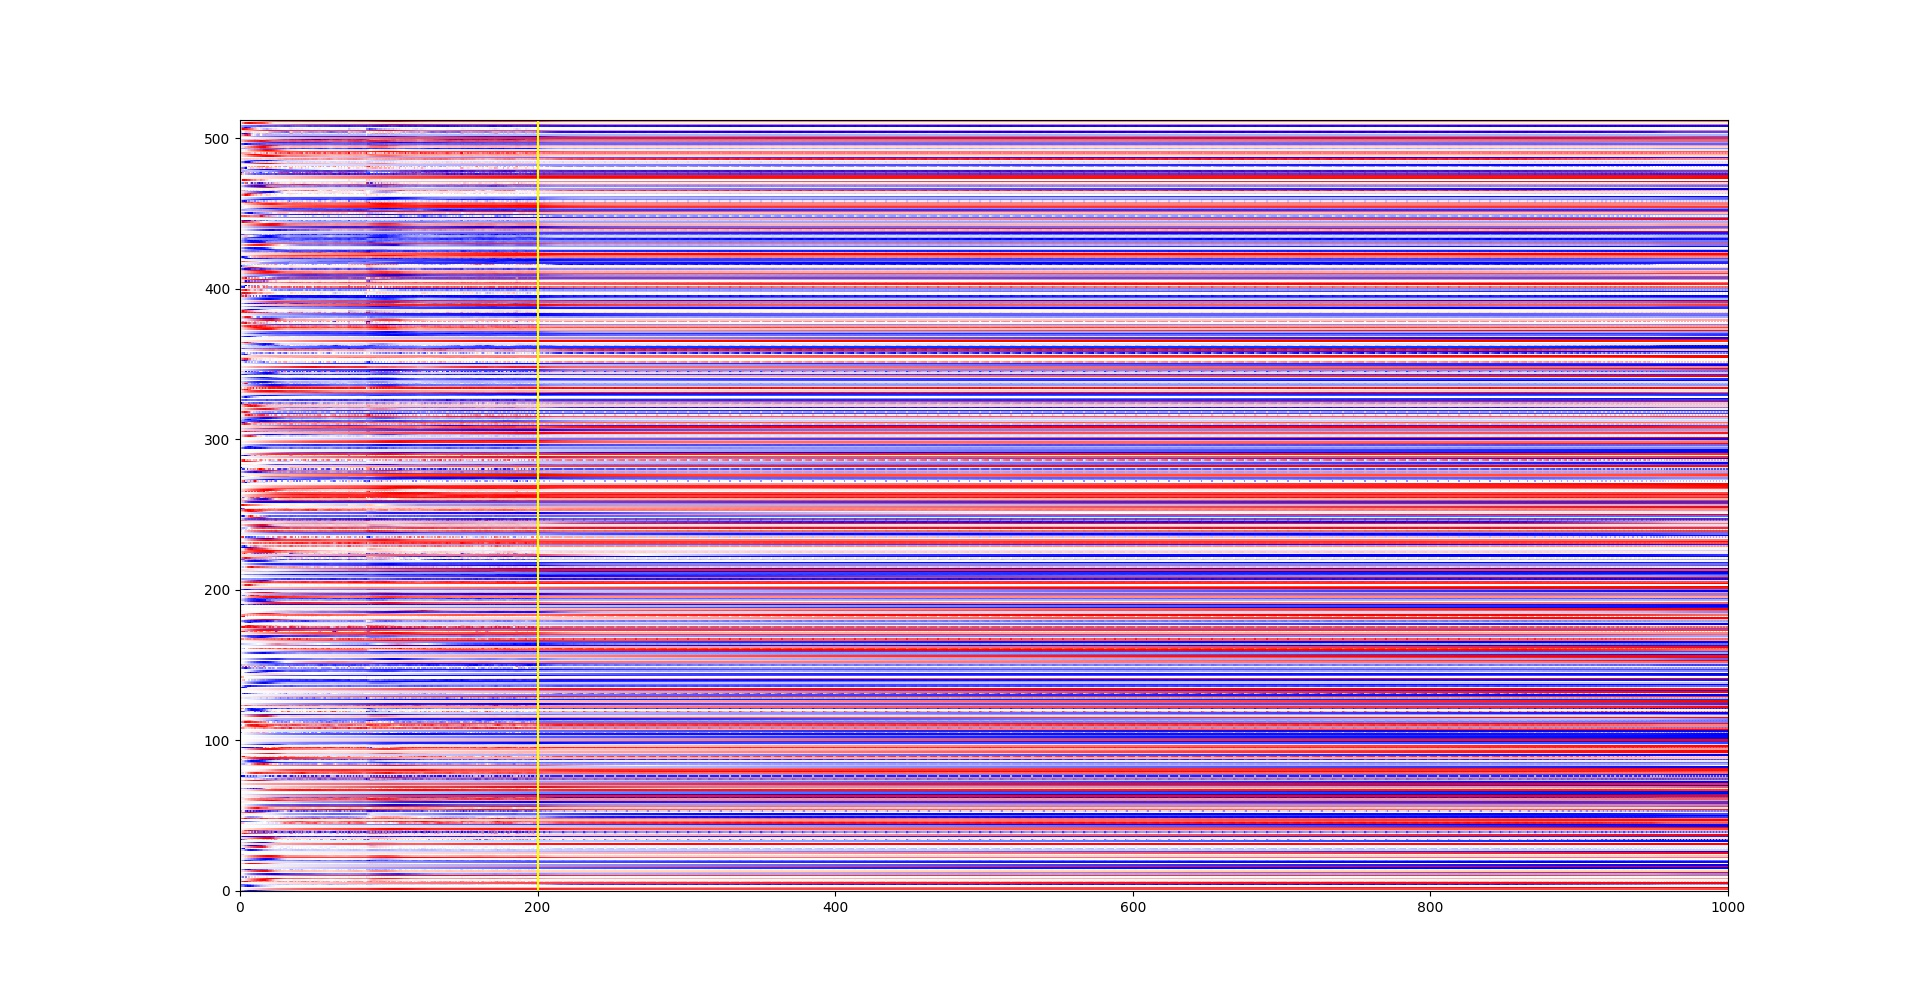
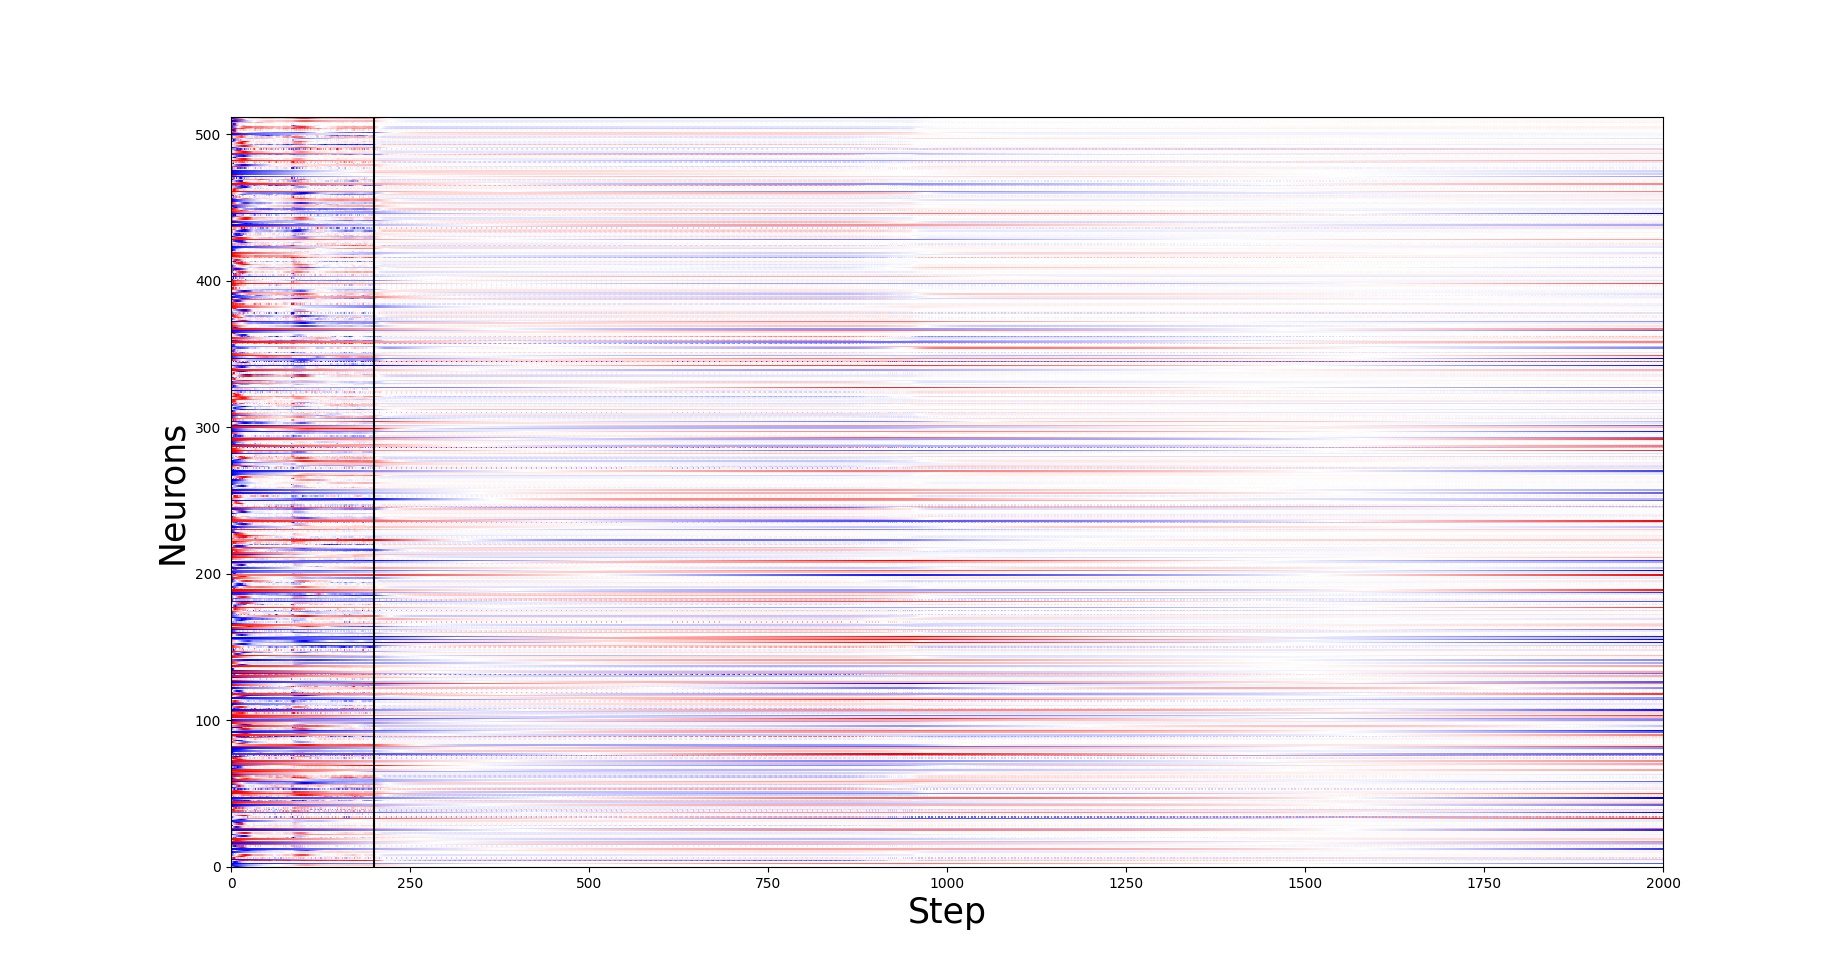
MEI

diff --git a/Analysis/Neural/Visualisation/activity_heat_maps.py b/Analysis/Neural/Visualisation/activity_heat_maps.py
@@ -1,5 +1,7 @@
 import numpy as np
 import matplotlib.pyplot as plt
+from scipy import signal
+
 
 from Analysis.load_data import load_data
 from Analysis.Neural.Tools.normalise_activity import normalise_within_neuron_multiple_traces
@@ -7,20 +9,39 @@ from Analysis.Behavioural.Tools.BehavLabels.label_behavioural_context import lab
 
 
 def display_activity_heat_map(rnn_activity, event_timestamps, name, min_t=0, max_t=-1, normalise_main_activity=True,
-                              normalise_cell_activity=True):
+                              normalise_cell_activity=True, remove_undeviating=False):
     main_activity = np.swapaxes(rnn_activity[min_t:max_t, 0, 0, :], 0, 1)
     cell_state_activity = np.swapaxes(rnn_activity[min_t:max_t, 1, 0, :], 0, 1)
+
+    main_activity = signal.detrend(main_activity)
+    cell_state_activity = signal.detrend(cell_state_activity)
 
     if normalise_main_activity:
         main_activity = normalise_within_neuron_multiple_traces(main_activity)
     if normalise_cell_activity:
         cell_state_activity = normalise_within_neuron_multiple_traces(cell_state_activity)
 
+    if remove_undeviating:
+        thresh_1 = 0.20
+        # thresh_1 = 0.05
+        # thresh_1 = 0.07
+        std_main = np.std(main_activity[:, 200:], axis=1)
+        varying_main = (std_main > thresh_1)
+        main_activity = main_activity[varying_main]
 
-    plt.figure(figsize=(20, 20))
+        thresh_2 = 0.20
+        # thresh_2 = 0.15
+        # thresh_2 = 0.17
+        std_cell = np.std(cell_state_activity[:, 200:], axis=1)
+        varying_cell = (std_cell > thresh_2)
+        cell_state_activity = cell_state_activity[varying_cell]
+
+    plt.figure(figsize=(20, 5))
     plt.pcolormesh(main_activity, cmap="bwr")
     for event in event_timestamps:
-        plt.vlines(event, 0, main_activity.shape[0], color="yellow")
+        plt.vlines(event, 0, main_activity.shape[0], color="black")
+    plt.ylabel("Neurons", fontsize=25)
+    plt.xlabel("Step", fontsize=25)
     plt.savefig(f"{name}-heat_map.jpg", dpi=100)
     plt.clf()
     plt.close()
@@ -54,6 +75,10 @@ def display_activity_heat_map_capture_sequences_average(model_name, assay_config
     # RNN normalisation
     main_activity = np.swapaxes(all_rnn_activity[:, 0, 0, :], 0, 1)
     cell_state_activity = np.swapaxes(all_rnn_activity[:, 1, 0, :], 0, 1)
+
+    main_activity = signal.detrend(main_activity)
+    cell_state_activity = signal.detrend(cell_state_activity)
+
     if normalise_main_activity:
         main_activity = normalise_within_neuron_multiple_traces(main_activity, zero_score_start=False)
     if normalise_cell_activity:
@@ -143,12 +168,17 @@ if __name__ == "__main__":
                                                         normalise_main_activity=True, normalise_cell_activity=True,
                                                         sequence_steps=50, post_steps=50)
     # Interrupted trials
-    # data = load_data("dqn_scaffold_14-1", "Interruptions-H", "Naturalistic-3")
-    # data2 = load_data("dqn_scaffold_14-1", "Interruptions-H", "Naturalistic-5")
-    # display_activity_heat_map(data2["rnn_state_actor"], [200], "Interruptions", max_t=1000)
+    # data = load_data("dqn_scaffold_14-1", "Interruptions-HA", "Naturalistic-3")
+    # data2 = load_data("dqn_scaffold_14-1", "Interruptions-HA", "Naturalistic-5")
+    # display_activity_heat_map(data2["rnn_state_actor"], [200], "dqn_14-1-Interruptions", max_t=2000, remove_undeviating=True)
     #
     # # Normal trials
-    # data = load_data("ppo_scaffold_21-1", "Behavioural-Data-Free", "Naturalistic-5")
+    # data = load_data("ppo_scaffold_21-2", "Behavioural-Data-Videos-A1", "Naturalistic-5")
     # consumption_events = [i for i, c in enumerate(data["consumed"]) if c == 1]
-    # display_activity_heat_map(data["rnn_state_actor"], consumption_events, "Normal Behaviour")
+    # display_activity_heat_map(data["rnn_state_actor"], consumption_events, "ppo_scaffold_21-2-Normal Behaviour")
+    #
+    # data = load_data("dqn_scaffold_26-2", "Behavioural-Data-Videos-A1", "Naturalistic-1")
+    # consumption_events = [i for i, c in enumerate(data["consumed"]) if c == 1]
+    # display_activity_heat_map(data["rnn_state_actor"], consumption_events, "dqn_scaffold_26-2-Normal Behaviour")
+
 

diff --git a/run_analysis.py b/run_analysis.py
@@ -34,41 +34,41 @@ elif run_config == "4l":
 elif run_config == "dense":
     produce_meis("dqn_scaffold_26-2", "rnn_in", full_reafference=True, iterations=100, conv=False)
 elif run_config == "draw_ep":
+    model_name = "xdqn_scaffold_14-2"
+    assay_config_name = "dqn_26_2_videos"
+
+    data = load_data(model_name, "Behavioural-Data-Videos-A1", "Naturalistic-1")
+    draw_episode(data, assay_config_name, model_name, continuous_actions=False, show_energy_state=False,
+                 trim_to_fish=True, showed_region_quad=750, save_id="A11")
+    data = load_data(model_name, "Behavioural-Data-Videos-C1", "Naturalistic-1")
+    draw_episode(data, assay_config_name, model_name, continuous_actions=False, show_energy_state=False,
+                 trim_to_fish=True, showed_region_quad=750, save_id="C11")
+
     # model_name = "dqn_scaffold_26-2"
     # assay_config_name = "dqn_26_2_videos"
     #
-    # data = load_data(model_name, "Behavioural-Data-Videos-A1", "Naturalistic-1")
+    # data = load_data(model_name, "Behavioural-Data-Videos-CONV", "Naturalistic-2")
+    #
+    # learning_params, environment_params, base_network_layers, ops, connectivity = load_configuration_files(model_name)
+    # base_network_layers["rnn_state_actor"] = base_network_layers["rnn"]
+    # del base_network_layers["rnn"]
+    # network_data = {key: data[key] for key in list(base_network_layers.keys())}
+    # network_data["rnn"] = data["rnn_state_actor"][:, 0, 0, :]
+    # base_network_layers["rnn"] = base_network_layers["rnn_state_actor"]
+    # del base_network_layers["rnn_state_actor"]
+    # del network_data["rnn_state_actor"]
+    #
+    # network_data["left_eye"] = data["observation"][:, :, :, 0]
+    # network_data["right_eye"] = data["observation"][:, :, :, 1]
+    # network_data["internal_state"] = np.concatenate((np.expand_dims(data["energy_state"], 1),
+    #                                                  np.expand_dims(data["salt"], 1)), axis=1)
+    #
+    # ops = convert_ops_to_graph(ops)
+    # create_network_video(network_data, connectivity + ops, model_name, save_id="CONV", s_per_frame=0.04, scale=1)
+    #
     # draw_episode(data, assay_config_name, model_name, continuous_actions=False, show_energy_state=False,
-    #              trim_to_fish=True, showed_region_quad=750, save_id="A11")
-    # data = load_data(model_name, "Behavioural-Data-Videos-C1", "Naturalistic-1")
-    # draw_episode(data, assay_config_name, model_name, continuous_actions=False, show_energy_state=False,
-    #              trim_to_fish=True, showed_region_quad=750, save_id="C11")
-
-    model_name = "dqn_scaffold_26-2"
-    assay_config_name = "dqn_26_2_videos"
-
-    data = load_data(model_name, "Behavioural-Data-Videos-CONV", "Naturalistic-2")
-
-    learning_params, environment_params, base_network_layers, ops, connectivity = load_configuration_files(model_name)
-    base_network_layers["rnn_state_actor"] = base_network_layers["rnn"]
-    del base_network_layers["rnn"]
-    network_data = {key: data[key] for key in list(base_network_layers.keys())}
-    network_data["rnn"] = data["rnn_state_actor"][:, 0, 0, :]
-    base_network_layers["rnn"] = base_network_layers["rnn_state_actor"]
-    del base_network_layers["rnn_state_actor"]
-    del network_data["rnn_state_actor"]
-
-    network_data["left_eye"] = data["observation"][:, :, :, 0]
-    network_data["right_eye"] = data["observation"][:, :, :, 1]
-    network_data["internal_state"] = np.concatenate((np.expand_dims(data["energy_state"], 1),
-                                                     np.expand_dims(data["salt"], 1)), axis=1)
-
-    ops = convert_ops_to_graph(ops)
-    create_network_video(network_data, connectivity + ops, model_name, save_id="CONV", s_per_frame=0.04, scale=1)
-
-    draw_episode(data, assay_config_name, model_name, continuous_actions=False, show_energy_state=False,
-                 draw_past_actions=True,
-                 trim_to_fish=True, showed_region_quad=750, save_id="CONV", s_per_frame=0.04)
+    #              draw_past_actions=True,
+    #              trim_to_fish=True, showed_region_quad=750, save_id="CONV", s_per_frame=0.04)
 
     # model_name = "ppo_scaffold_21-2"
     # assay_config_name = "ppo_21_2_videos"

diff --git a/Analysis/Behavioural/Continuous/plot_behavioural_choice.py b/Analysis/Behavioural/Continuous/plot_behavioural_choice.py
@@ -118,7 +118,7 @@ def extract_consumption_action_sequences(data, n=20):
     return prey_c_t
 
 
-def plot_action_scatter(impulses, angles, model_name, special_impulses=None, special_angles=None, special_names=None):
+def plot_action_scatter(impulses, angles, model_name, special_impulses=None, special_angles=None, special_names=None, color=None):
     plot_name = f"{model_name}-action_scatter"
 
     plt.scatter(impulses, angles, alpha=.1)
@@ -127,7 +127,10 @@ def plot_action_scatter(impulses, angles, model_name, special_impulses=None, spe
     i = 0
     if special_names is not None:
         for impulses_s, angles_s in zip(special_impulses, special_angles):
-            plt.scatter(impulses_s, angles_s, color=special_colours[i], alpha=0.2)
+            if color is not None:
+                plt.scatter(impulses_s, angles_s, color=color, alpha=0.2)
+            else:
+                plt.scatter(impulses_s, angles_s, color=special_colours[i], alpha=0.2)
             i += 1
         plot_name = "-".join(special_names) + "-" + plot_name
 
@@ -254,6 +257,7 @@ def plot_actions_under_all_contexts(model_name, assay_config, assay_id, n, impul
     mu_angle *= angle_scaling
 
     all_contexts = np.concatenate((context_labels), axis=0)
+    context_colours = ['b', 'b', 'b', 'g',  'g', 'r',  'r',  'r', 'r', 'y', "black", "black", "black", "black"]
 
     for context in range(all_contexts.shape[1]):
         important_points = [i for i, v in enumerate(all_contexts[:, context]) if v == 1]
@@ -261,20 +265,20 @@ def plot_actions_under_all_contexts(model_name, assay_config, assay_id, n, impul
         mu_angle_s = mu_angle[important_points]
 
         plot_action_scatter(mu_impulse, mu_angle, model_name, [mu_impulse_s], [mu_angle_s],
-                            [get_behavioural_context_name_by_index(context)])
+                            [get_behavioural_context_name_by_index(context)], color=context_colours[context])
 
 
 
 
 if __name__ == "__main__":
-    model_name = "ppo_scaffold_21-1"
+    model_name = "ppo_scaffold_21-2"
 
     max_impulse = 16
     angle_scaling = 1
 
-    plot_action_space_usage(model_name, "Behavioural-Data-NaturalisticA", "Naturalistic", 20, max_impulse, angle_scaling,
-                            show_action_mask=True)
-    # plot_actions_under_all_contexts(model_name, "Behavioural-Data-Free", "Naturalistic", 20, max_impulse, angle_scaling)
+    # plot_action_space_usage(model_name, "Behavioural-Data-NaturalisticA", "Naturalistic", 20, max_impulse, angle_scaling,
+    #                         show_action_mask=True)
+    plot_actions_under_all_contexts(model_name, "Behavioural-Data-Free", "Naturalistic", 20, max_impulse, angle_scaling)
 
 
 

diff --git a/Analysis/Behavioural/Interventions/assess_full_interruptions.py b/Analysis/Behavioural/Interventions/assess_full_interruptions.py
@@ -286,8 +286,8 @@ def plot_binned_results(results, model_names, bin_size, initialisation_period, f
 
 def display_action_plots_discrete(model_name, assay_config, assay_id, n, figure_name, slice_size=200):
     actions_compiled = []
-    for i in range(1, n+1):
-
+    plots = [3, 5, 1, 2, 4] + [i for i in range(6, n+1)]  # To place similar ones together.
+    for i in plots:
         model_compiled = []
         if i < 6:
             d = load_data(model_name, "Interruptions-HA", f"{assay_id}-{i}")
@@ -297,16 +297,19 @@ def display_action_plots_discrete(model_name, assay_config, assay_id, n, figure_
             model_compiled.append(d["action"][i: i+slice_size])
         actions_compiled.append(model_compiled)
 
+    # If splitting into bins
     # actions_compiled2 = [[actions_compiled[trial][slice] for trial in range(len(actions_compiled))] for slice in range(10)]
     # actions_compiled2 = [actions_compiled2[i] + [(np.ones(slice_size)*10).astype(int) for j in range(len(actions_compiled2[i]))] for i in range(len(actions_compiled2))]
     actions_compiled2 = actions_compiled
     actions_compiled2 = np.concatenate((actions_compiled2))
 
     color_set = ['b', 'g', 'lightgreen', 'r', 'y', 'gold', "c", "m", "m", "black", "white"]
-    fig, ax = plt.subplots(figsize=(14, 10))
+    color_set = ['b', 'y', 'gold', 'r', 'g', 'lightgreen',  "c", "m", "m", "black", "white"]
+    fig, ax = plt.subplots(figsize=(20, 5))
     for i, seq in enumerate(actions_compiled2):
         for j, a in enumerate(seq):
             ax.fill_between((j, j + 1), -i, -i - 1, color=color_set[a])
+    plt.vlines(200, 2, -n-2, color="black")
 
     seen = set()
     seen_add = seen.add
@@ -318,9 +321,14 @@ def display_action_plots_discrete(model_name, assay_config, assay_id, n, figure_
 
     legend_elements = [Patch(facecolor=color_set[a], label=associated_actions[i]) for i, a in enumerate(ordered_actions_present)]# [0], [0], marker="o", color=color_set[i], label=associated_actions[i]) for i in actions_present]
 
-
+    ax.spines['top'].set_visible(False)
+    ax.spines['right'].set_visible(False)
+    ax.spines['bottom'].set_visible(False)
+    ax.spines['left'].set_visible(False)
     plt.legend(legend_elements, associated_actions, bbox_to_anchor=(1.02, 1), loc=2, borderaxespad=0.)
     # plt.axis("scaled")
+    plt.ylabel("Trial", fontsize=30)
+    plt.xlabel("Step", fontsize=30)
     plt.savefig(f"{figure_name}.png")
     plt.close(fig)
     plt.clf()

diff --git a/Analysis/Training/plot_metrics_newest.py b/Analysis/Training/plot_metrics_newest.py
@@ -77,7 +77,8 @@ def get_metric_name(metric_label):
     return metric_name
 
 
-def plot_multiple_metrics_multiple_models(model_list, metrics, window, interpolate_scaffold_points, figure_name):
+def plot_multiple_metrics_multiple_models(model_list, metrics, window, interpolate_scaffold_points, figure_name,
+                                          key_scaffold_points=None):
     """Different to previous versions in that it uses data directly from log files, and scales points between scaffold
     switching points to allow plotting between models. The resulting graph is x: config change point, y: metric.
 
@@ -117,9 +118,17 @@ def plot_multiple_metrics_multiple_models(model_list, metrics, window, interpola
                 model[metric][to_switch, 1] -= 0.5
                 model[metric][to_switch, 1] *= 2
             axs[i].plot(model[metric][:, 0], model[metric][:, 1])
+            if min(model[metric][:, 1]) <= 0:
+                plt.hlines(0, 0, 35, color="black", linestyles="dashed")
 
-            axs[i].set_ylabel(metric_name)
             axs[i].grid(True, axis="x")
+
+            if key_scaffold_points is not None:
+                ylim = axs[i].get_ylim()
+                for p in key_scaffold_points:
+                    axs[i].vlines(p, ylim[0], ylim[1], color="r")
+                axs[i].set_ylim(ylim[0], ylim[1])
+            # axs[i].set_ylabel(metric_name)
 
     axs[-1].set_xlabel("Scaffold Point")
     sc = np.concatenate(([np.array(s) for s in scaffold_switching_points]))
@@ -193,7 +202,7 @@ if __name__ == "__main__":
                           # "Phototaxis Index"
                           ]
     plot_multiple_metrics_multiple_models(dqn_models, chosen_metrics_dqn, window=40, interpolate_scaffold_points=True,
-                                          figure_name="dqn_30")
-    plot_multiple_metrics_multiple_models(ppo_models, chosen_metrics_ppo, window=40, interpolate_scaffold_points=True,
-                                          figure_name="ppo_21")
+                                          figure_name="dqn_30", key_scaffold_points=[10, 16, 31])
+    # plot_multiple_metrics_multiple_models(ppo_models, chosen_metrics_ppo, window=40, interpolate_scaffold_points=True,
+    #                                       figure_name="ppo_21")
     # plot_scaffold_durations(models[0])

diff --git a/Analysis/Behavioural/Both/assess_prey_approach.py b/Analysis/Behavioural/Both/assess_prey_approach.py
@@ -49,7 +49,7 @@ def get_fish_prey_relationships(data, sequences):
 if __name__ == "__main__":
     dist = []
     angs = []
-    model_name, assay_config, assay_id, n = "ppo_scaffold_21-1", "Behavioural-Data-Free", f"Naturalistic", 10
+    model_name, assay_config, assay_id, n = "dqn_scaffold_26-2", "Behavioural-Data-NaturalisticA", f"Naturalistic", 40
     for i in range(1, n+1):
         d = load_data(model_name, assay_config, f"{assay_id}-{i}")
         ts = get_prey_capture_timestamps(d)
@@ -68,24 +68,29 @@ if __name__ == "__main__":
     mean_ang = np.mean(np.absolute(angs), axis=0)
 
     # plt.plot(np.swapaxes(angs, 0, 1), color="grey", alpha=0.5)
-    plt.plot(mean_ang, color="r")
+
     upper, lower = mean_ang + angs_sem, mean_ang - angs_sem
-    steps = [i for i in range(len(mean_ang))]
-    plt.fill_between(steps, upper, lower)
-    plt.xlabel("Bouts before consumption")
-    plt.ylabel("Angle to prey (pi radians)")
+    steps = [i-9 for i in range(len(mean_ang))]
+
+    plt.plot(steps, mean_ang, color="r")
+    plt.fill_between(steps, upper, lower, alpha=0.5)
+    plt.xlabel("Steps from Consumption", fontsize=15)
+    plt.ylabel("Fish-Prey Angle (pi radians)", fontsize=15)
+    plt.ylim(0, 0.9)
     plt.savefig(f"{model_name}-fish_prey_angle.jpg")
     plt.clf()
     plt.close()
 
     # plt.plot(np.swapaxes(dist, 0, 1)/10, color="grey", alpha=0.5)
-    plt.plot(mean_dist/10, color="r")
     upper, lower = mean_dist+dist_sem, mean_dist-dist_sem
-    steps = [i for i in range(len(mean_dist))]
-    plt.fill_between(steps, upper/10, lower/10)
-    plt.xlabel("Bouts before consumption")
-    plt.ylabel("Distance from Prey (mm)")
-    plt.ylim(0, 10)
+    steps = [i-9 for i in range(len(mean_dist))]
+
+    plt.plot(steps, mean_dist/10, color="r")
+    plt.fill_between(steps, upper/10, lower/10, alpha=0.5)
+    plt.xlabel("Steps from Consumption", fontsize=15)
+    plt.ylabel("Fish-Prey Distance (mm)", fontsize=15)
+    plt.ylim(0, 7)
+    plt.legend(["Mean", "SEM"])
     plt.savefig(f"{model_name}-fish_prey_distance.jpg")
     plt.clf()
     plt.close()

diff --git a/Analysis/Behavioural/Continuous/identifying_bouts.py b/Analysis/Behavioural/Continuous/identifying_bouts.py
@@ -61,9 +61,9 @@ def cluster_bouts(impulses, angles, cluster_type, cluster_num, model_name, impul
             else:
                 plt.text(i+0.1, a + 0.03, bout_names[index])
 
-    plt.legend([str(a) for a in range(cluster_num)])
-    plt.xlabel("Impulse")
-    plt.ylabel("Angle")
+    # plt.legend([str(a) for a in range(cluster_num)])
+    plt.xlabel("Impulse", fontsize=15)
+    plt.ylabel("Angle (pi radians)", fontsize=15)
     plt.savefig(f"All-Plots/{model_name}/{cluster_type}-{cluster_num}-clustered.jpg")
     plt.clf()
     plt.close()
@@ -163,7 +163,7 @@ if __name__ == "__main__":
     mu_angle = np.concatenate((mu_angle, mu_angle_empty))
 
     p, associated_bouts = cluster_bouts(mu_impulse, mu_angle, "KNN", n_clusters, model_name, 16, 1, return_actions=True,
-                                        overlay_bouts=True)
+                                        overlay_bouts=False)
 
     # get_all_density_plots_all_subsets_continuous(model_name, assay_config, assay_id, n,  predictor=p, mu_impulse=mu_impulse,
     #                                              mu_angle=mu_angle,

diff --git a/Analysis/Neural/MEI/estimate_mei_direct.py b/Analysis/Neural/MEI/estimate_mei_direct.py
@@ -235,6 +235,8 @@ def produce_meis_extended(model_name, layer_name, full_reafference, iterations=1
         # readout_blocks = {f"Unit {unit}": getattr(network, layer_name)[:, :, unit] for unit in range(n_units)}
         target_layer = getattr(network, layer_name)
         n_units = target_layer.shape[-1]
+        if n_units > 64:
+            n_units = 50
         n_applications = target_layer.shape[-2]
         all_images = np.zeros((n_units, n_applications, 100, 3, 2))
 
@@ -325,7 +327,8 @@ def produce_meis_extended(model_name, layer_name, full_reafference, iterations=1
 
 
 if __name__ == "__main__":
-    produce_meis("dqn_scaffold_26-2", "conv4l", full_reafference=True, iterations=100)
+    produce_meis("dqn_scaffold_26-2", "Q_out", full_reafference=True, iterations=100, conv=False)
+    # produce_meis("dqn_scaffold_26-2", "conv4l", full_reafference=True, iterations=100)
     # produce_meis("dqn_scaffold_26-2", "rnn_in", full_reafference=True, iterations=2, conv=False)
     # produce_meis_extended("dqn_scaffold_26-2", "conv4l", full_reafference=True, iterations=10)
 
